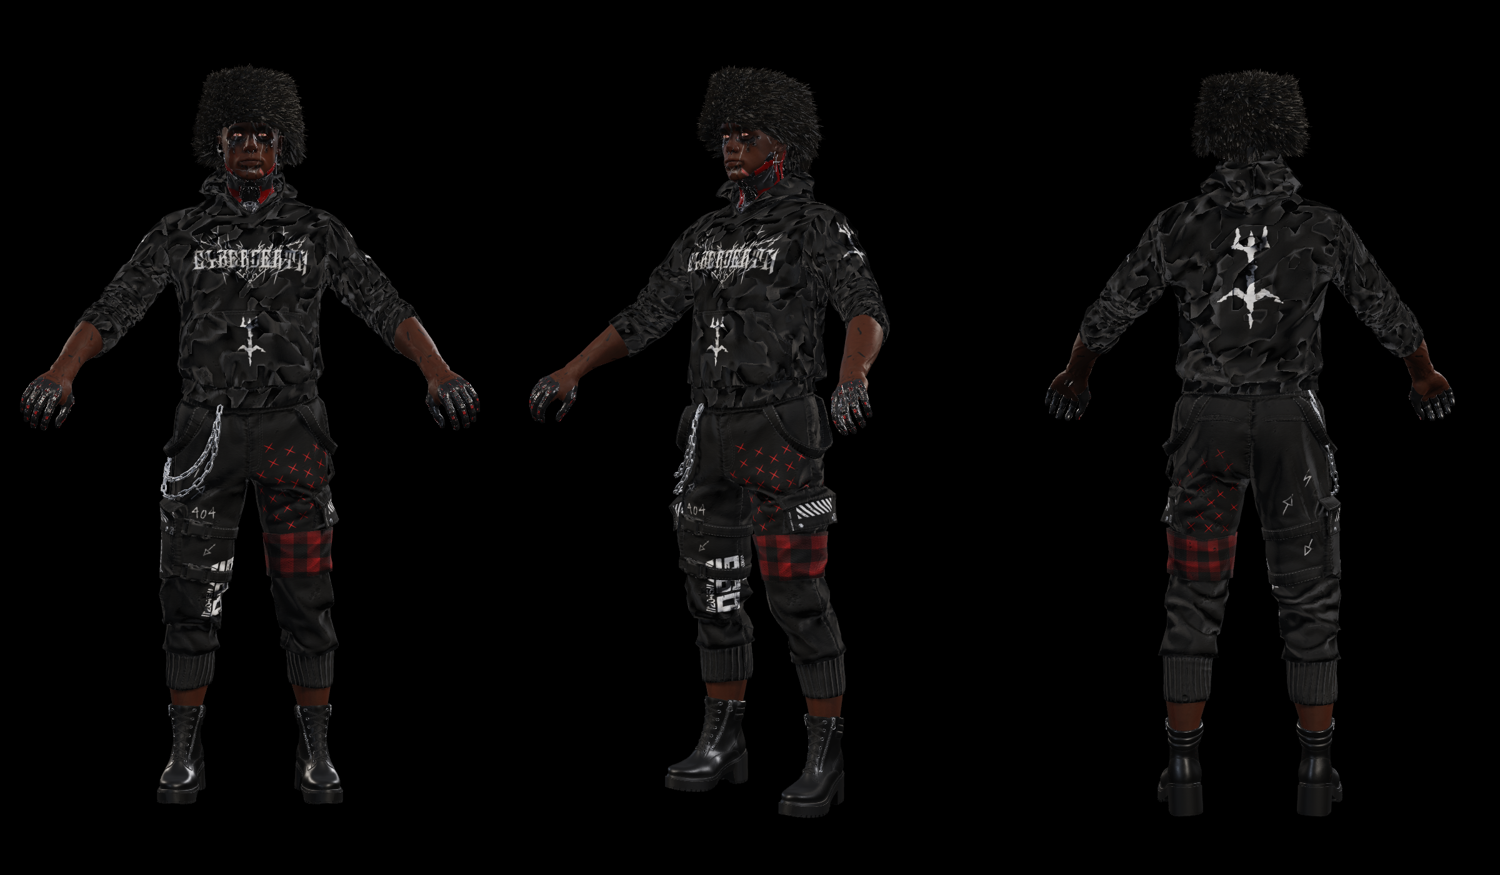
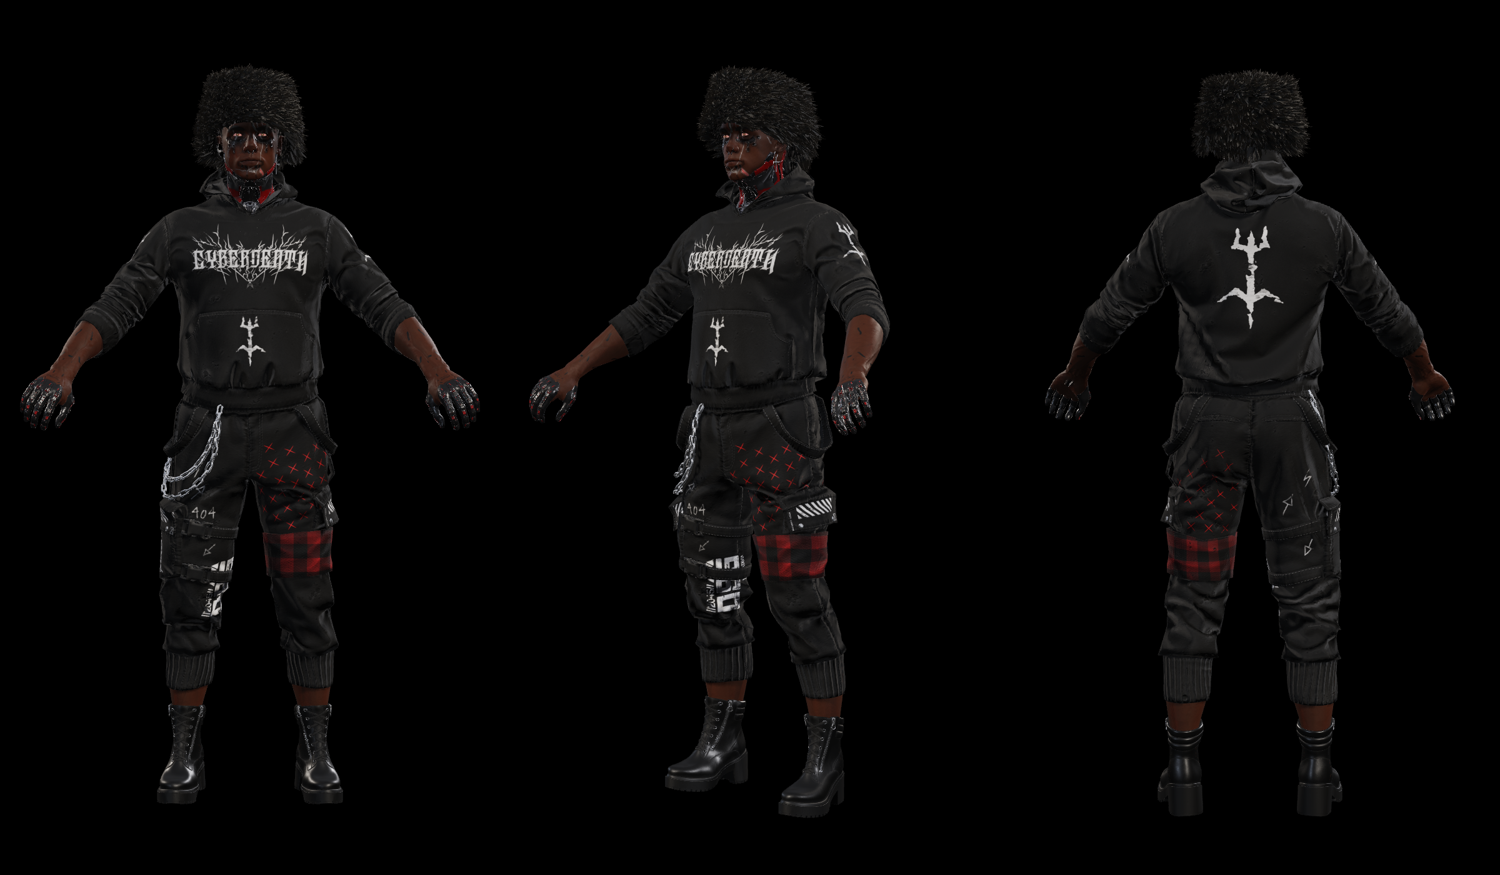
STAGING: use authored mesh normals (fixes hoodie blotches)
Claude-Session: https://claude.ai/code/session_019USJoTMPWkGMgSSejE2vqd

diff --git a/tools/pbr/render.html b/tools/pbr/render.html
@@ -16,8 +16,8 @@ precision highp float; in vec3 wp; in vec3 wn; in vec2 uv; in vec4 lp; out vec4 
 uniform sampler2D tB,tN,tMR,tE,tS; uniform vec4 base; uniform float metal,rough,nsc,emisF,cutoff,skin,clearc,shmin,selfl,nospec,hair; uniform vec3 hc;
 uniform int hasB,hasN,hasMR,hasE,mode,emitOnly,dbg; uniform vec3 cam; uniform vec3 Ld[4]; uniform vec3 Lc[4];
 vec3 lin(vec3 c){return pow(c,vec3(2.2));}
-float shadow(){vec3 s=lp.xyz/lp.w*.5+.5; if(s.x<0.||s.x>1.||s.y<0.||s.y>1.)return 1.; float r=0.; vec2 ts=1./vec2(textureSize(tS,0));
- for(int x=-2;x<=2;x++)for(int y=-2;y<=2;y++){r+= (s.z-0.0015 > texture(tS,s.xy+vec2(x,y)*ts).r)?0.:1.;} return r/25.;}
+uniform float shbias; float shadow(){vec3 s=lp.xyz/lp.w*.5+.5; if(s.x<0.||s.x>1.||s.y<0.||s.y>1.)return 1.; float r=0.; vec2 ts=1./vec2(textureSize(tS,0));
+ for(int x=-2;x<=2;x++)for(int y=-2;y<=2;y++){r+= (s.z-shbias > texture(tS,s.xy+vec2(x,y)*ts).r)?0.:1.;} return r/25.;}
 mat3 tbn(vec3 n){vec3 dp1=dFdx(wp),dp2=dFdy(wp);vec2 du1=dFdx(uv),du2=dFdy(uv);vec3 dp2p=cross(dp2,n),dp1p=cross(n,dp1);
  vec3 t=dp2p*du1.x+dp1p*du2.x; vec3 b=dp2p*du1.y+dp1p*du2.y; float k=inversesqrt(max(dot(t,t),dot(b,b))+1e-20); return mat3(t*k,b*k,n);}
 void main(){
@@ -105,7 +105,7 @@ async function loadGLB(url){
    out.push({name:me.name,va,n:I.length,c:[cx/n3,cy/n3,cz/n3],mode:m.alphaMode==='MASK'?1:m.alphaMode==='BLEND'?2:0,cutoff:m.alphaCutoff||0.5,double:!!m.doubleSided,
      base:pb.baseColorFactor||[1,1,1,1],metal:pb.metallicFactor??1,rough:pb.roughnessFactor??1,tB:pb.baseColorTexture?texs[pb.baseColorTexture.index]:null,
      tN:m.normalTexture?texs[m.normalTexture.index]:null,nsc:m.normalTexture?(m.normalTexture.scale??1):1,tMR:pb.metallicRoughnessTexture?texs[pb.metallicRoughnessTexture.index]:null,
-     tE:m.emissiveTexture?texs[m.emissiveTexture.index]:null,emisF:(m.emissiveFactor||[0])[0],skin:ex.skin||0,clearc:ex.clearcoat||0,order:ex.order||0,shmin:ex.shmin||0,selfl:ex.selflit||0,nospec:ex.nospec||0,hair:ex.hair||0});
+     tE:m.emissiveTexture?texs[m.emissiveTexture.index]:null,emisF:(m.emissiveFactor||[0])[0],skin:ex.skin||0,clearc:ex.clearcoat||0,order:ex.order||0,shmin:ex.shmin||0,selfl:ex.selflit||0,cull:!!ex.cull,nospec:ex.nospec||0,hair:ex.hair||0});
  })}); return {meshes:out,lo,hi};
 }
 (async()=>{try{
@@ -139,19 +139,20 @@ async function loadGLB(url){
  function scene(emitOnly){
   gl.bindFramebuffer(gl.FRAMEBUFFER,mfb); gl.viewport(0,0,W,H); gl.clearColor(0,0,0,1); gl.clear(gl.COLOR_BUFFER_BIT|gl.DEPTH_BUFFER_BIT);
   gl.useProgram(P0); const U=n=>gl.getUniformLocation(P0,n);
-  gl.uniformMatrix4fv(U('VP'),false,VP); gl.uniformMatrix4fv(U('LVP'),false,LVP); gl.uniform3fv(U('cam'),cam); gl.uniform3fv(U('Ld'),L.flat()); gl.uniform3fv(U('Lc'),LC.flat()); gl.uniform1i(U('emitOnly'),emitOnly); gl.uniform1i(U('dbg'),+Q.get('dbg')||0);
+  gl.uniformMatrix4fv(U('VP'),false,VP); gl.uniformMatrix4fv(U('LVP'),false,LVP); gl.uniform3fv(U('cam'),cam); gl.uniform3fv(U('Ld'),L.flat()); gl.uniform3fv(U('Lc'),LC.flat()); gl.uniform1i(U('emitOnly'),emitOnly); gl.uniform1f(U('shbias'),+Q.get('shb')||0.0015); gl.uniform1i(U('dbg'),+Q.get('dbg')||0);
   gl.activeTexture(gl.TEXTURE4); gl.bindTexture(gl.TEXTURE_2D,st); gl.uniform1i(U('tS'),4);
   const opaque=S.meshes.filter(m=>m.mode!==2), blend=S.meshes.filter(m=>m.mode===2).sort((a,b)=>(a.order-b.order)||(Math.hypot(...sub(b.c,cam))-Math.hypot(...sub(a.c,cam))));
   for(const m of [...opaque,...blend]){
    if(m.mode===2){gl.enable(gl.BLEND);gl.blendFunc(gl.SRC_ALPHA,gl.ONE_MINUS_SRC_ALPHA);gl.depthMask(false);} else {gl.disable(gl.BLEND);gl.depthMask(true);}
    if(emitOnly&&m.mode===2){gl.disable(gl.BLEND);} 
+   if(m.cull){gl.enable(gl.CULL_FACE);gl.cullFace(gl.BACK);} else gl.disable(gl.CULL_FACE);
    gl.uniform4fv(U('base'),m.base); gl.uniform1f(U('metal'),m.metal); gl.uniform1f(U('rough'),m.rough); gl.uniform1f(U('nsc'),m.nsc); gl.uniform1f(U('emisF'),m.emisF);
    gl.uniform1f(U('cutoff'),m.cutoff); gl.uniform1f(U('skin'),m.skin); gl.uniform1f(U('clearc'),m.clearc); gl.uniform1f(U('shmin'),m.shmin); gl.uniform1f(U('selfl'),m.selfl); gl.uniform1f(U('nospec'),m.nospec); gl.uniform1f(U('hair'),m.hair); gl.uniform3fv(U('hc'),HC); gl.uniform1i(U('mode'),m.mode);
    [['tB',m.tB,0,'hasB'],['tN',m.tN,1,'hasN'],['tMR',m.tMR,2,'hasMR'],['tE',m.tE,3,'hasE']].forEach(([n,t,u,h])=>{gl.activeTexture(gl.TEXTURE0+u);gl.bindTexture(gl.TEXTURE_2D,t);gl.uniform1i(U(n),u);gl.uniform1i(U(h),t?1:0)});
    if(emitOnly && !m.tE && m.mode===2) continue;
    gl.bindVertexArray(m.va); gl.drawElements(gl.TRIANGLES,m.n,gl.UNSIGNED_INT,0);
   }
-  gl.depthMask(true); gl.disable(gl.BLEND);
+  gl.depthMask(true); gl.disable(gl.BLEND); gl.disable(gl.CULL_FACE);
   gl.bindFramebuffer(gl.READ_FRAMEBUFFER,mfb); gl.bindFramebuffer(gl.DRAW_FRAMEBUFFER,hfb); gl.blitFramebuffer(0,0,W,H,0,0,W,H,gl.COLOR_BUFFER_BIT,gl.NEAREST);
   gl.bindFramebuffer(gl.FRAMEBUFFER,null); gl.viewport(0,0,W,H); gl.useProgram(PT); gl.activeTexture(gl.TEXTURE0); gl.bindTexture(gl.TEXTURE_2D,hdr);
   gl.uniform1i(gl.getUniformLocation(PT,'tC'),0); gl.uniform1f(gl.getUniformLocation(PT,'exposure'),emitOnly?1.0:(+Q.get('exp')||1.0)); gl.drawArrays(gl.TRIANGLES,0,3);

diff --git a/tools/head1.py b/tools/head1.py
@@ -365,11 +365,11 @@ if OUTFIT and BODY:
             PLAT={k:xbm.load(_yb.extract(_ybf[names.fnv((_YT+k+'.xbm').lower())])) for k in ('boots_d','boots_n','boots_m','boots_r','metal_d','metal_n','metal_m','metal_r') if names.fnv((_YT+k+'.xbm').lower()) in _ybf}
             print('platform textures',sorted(PLAT))
             for k_,s_ in enumerate(mesh.decode(_yb.extract(_ybf[2721687290290620523]))['subs']):
-                parts.append(dict(pos=s_['pos'],idx=s_['idx'],uv=s_['uv0'],tex=PLAT['boots_d' if k_==0 else 'metal_d'].convert('RGBA'),alpha=0,name='plat_'+('boots' if k_==0 else 'metal')))
+                parts.append(dict(pos=s_['pos'],idx=s_['idx'],uv=s_['uv0'],nrm=s_.get('nrm'),tex=PLAT['boots_d' if k_==0 else 'metal_d'].convert('RGBA'),alpha=0,name='plat_'+('boots' if k_==0 else 'metal')))
             continue
         q='pkd_rvcoondumpster\\denimedgerunner\\%s_pma_denimedgerunner_%s_base_body.mesh'%(_pre[it],it)
         for s_ in mesh.decode(_dn.extract(_dnf[names.fnv(q.lower())]))['subs']:
-            parts.append(dict(pos=s_['pos'],idx=s_['idx'],uv=s_['uv0'],tex=DEN['d01'],alpha=0,name='den_'+it))
+            parts.append(dict(pos=s_['pos'],idx=s_['idx'],uv=s_['uv0'],nrm=s_.get('nrm'),tex=DEN['d01'],alpha=0,name='den_'+it))
 # Takemura neck cyberware: ml_h1_001_ma_cyberware__takemura.mlsetup baked (titanium / cast iron / enamel / red tech plastic)
 CWA=np.asarray(Image.open('/home/claude/work/staging/cw_albedo.png').convert('RGB')).astype(np.float32)
 _met=np.asarray(Image.open('/home/claude/work/staging/cw_metal.png')).astype(np.float32)[...,None]/255

diff --git a/tools/export_glb.py b/tools/export_glb.py
@@ -51,8 +51,9 @@ if 'OUTFIT' in globals() and OUTFIT:
             for t in ('boots','metal'):
                 _r=PLAT.get(t+'_r'); _m=PLAT.get(t+'_m'); _sz=(_r or _m or PLAT[t+'_d']).size
                 M['plat_'+t]=G.material('plat_'+t,base=PLAT[t+'_d'].convert('RGB'),normal=glb.cp_normal(PLAT[t+'_n']) if t+'_n' in PLAT else None,mr=glb.mr_map((_r.convert('L') if _r else Image.new('L',_sz,140)),(_m.convert('L').resize(_sz) if _m else Image.new('L',_sz,255 if t=='metal' else 0))))
-        else: M['den_'+it]=G.material('den_'+it,base=_dbase,normal=_dn_,mr=_dmr,emis=_de,emis_f=(1,1,1),double=True)
+        else: M['den_'+it]=G.material('den_'+it,base=_dbase,normal=_dn_,mr=_dmr,emis=_de,emis_f=(1,1,1),ext={'cull':1})   # cloth has an inner shell: cull back faces
 for p in parts:
     if p['name'] not in M: continue
-    G.mesh(p['name'],p['pos'],p['idx'],p['uv'],M[p['name']])
+    _n=p.get('nrm'); _n=None if _n is None else _n[:,:3]/np.maximum(np.linalg.norm(_n[:,:3],axis=1,keepdims=True),1e-9)
+    G.mesh(p['name'],p['pos'],p['idx'],p['uv'],M[p['name']],normals=_n)   # authored normals where the source has them
 print('glb bytes',G.save(sys.argv[1] if len(sys.argv)>1 else S+'stage_head.glb'))

diff --git a/standards/physics.md b/standards/physics.md
@@ -21,3 +21,7 @@ Budget: <= 6 jiggle parts for the whole character. Small items (earrings, pendan
 - **Kwek cross earring (left ear)**: chain `dyng_earring_left_01 -> dyng_earring_left_02`, cone 35 deg (HalfCone),
   pullForceFactor 3.0  ->  1 jiggle: ConstrainAngles 35, Strength 0.75, Speed 0.75, pivot at the hoop (lobe).
   The right earring of the pair is not used (right ear carries the ANRUI cyberware).
+
+# Mesh standard: normals
+Always use the source mesh's authored vertex normals (CP `PS_Normal`) for export. Recomputing them from triangle winding
+breaks on garments with hard edges / mixed winding (Denim Edgerunner hoodie showed a fake 'camo' blotch pattern).
